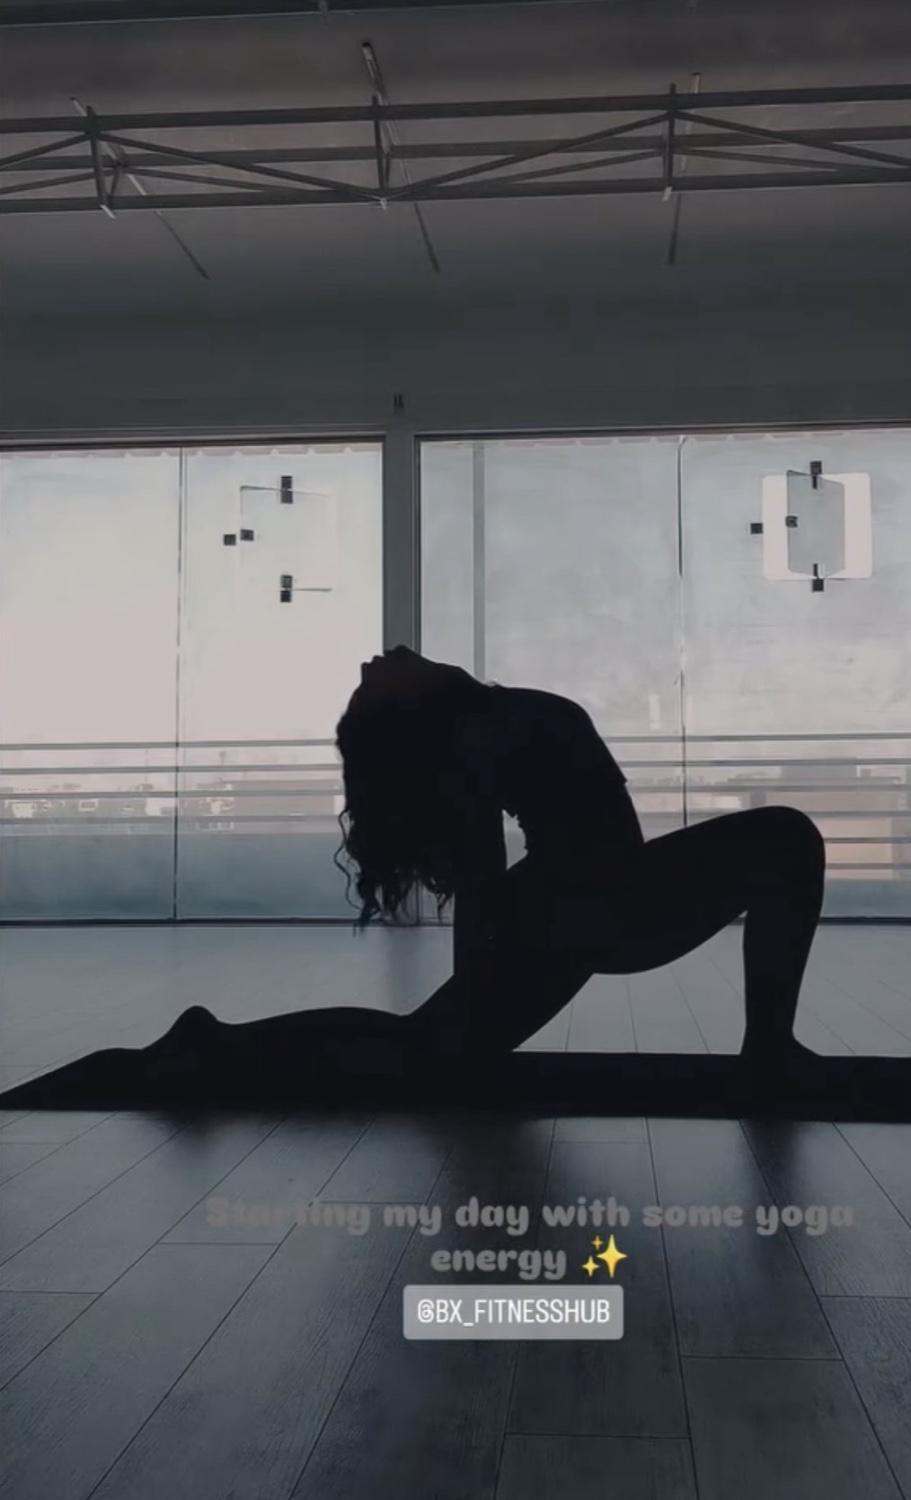
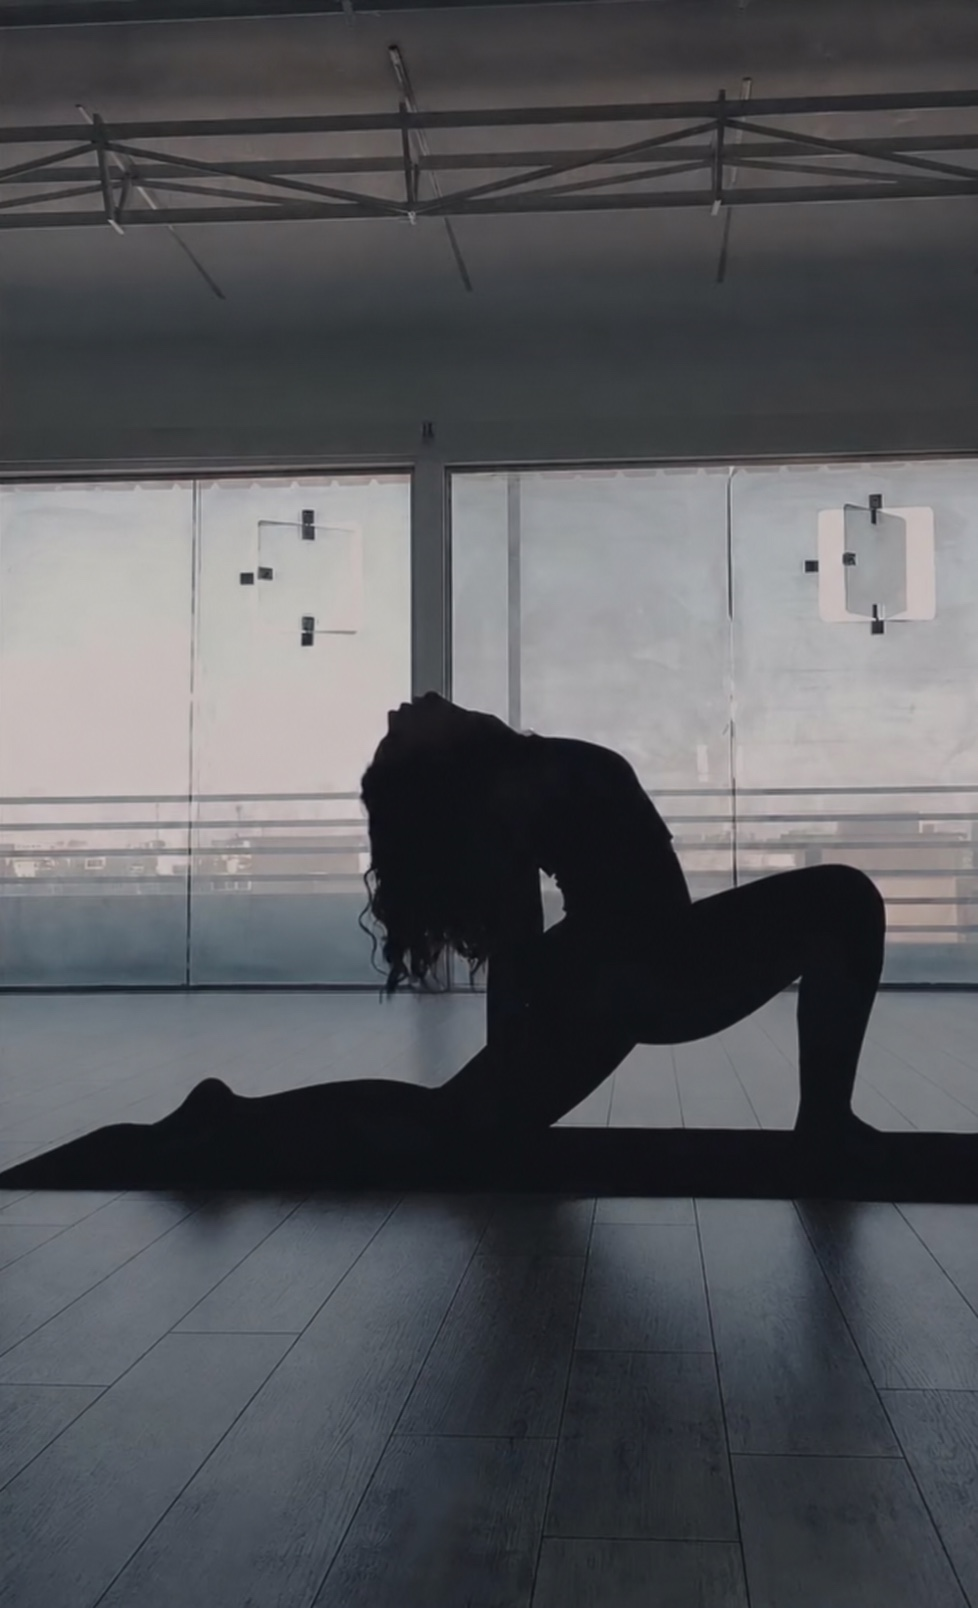
feat: the new stretching photograph in About
Replaces the yoga-flow shot in the square inset. The new one is a
backlit silhouette against the studio windows - graphic and almost
monochrome, which sits better beside the strength floor behind it than
the old daylit frame did.

Converted PNG to JPEG on the way in, 1.3MB to 210KB, and put in
src/images rather than public so the static import fingerprints it by
content and anyone holding the old picture gets the new one.

The 62% crop carried over unchanged and happens to suit this frame too:
the image is narrower than the square, so its full width shows and the
height is cropped, and 62% pulls that window down off the ceiling truss
and onto the figure. Checked at 1440px rather than assumed.

The alt text is rewritten, because it described a different photograph.

Changed region(s): [[0.3996, 0.7973, 0.9221, 0.92]]

diff --git a/src/components/sections/About.tsx b/src/components/sections/About.tsx
@@ -41,12 +41,14 @@ export default function About() {
                 className="plate object-cover"
               />
             </div>
-            {/* Square frame over a tall photograph, so the crop is pulled
-                down onto the figure rather than the window above her. */}
+            {/* Square frame over a tall photograph. The image is narrower
+                than the frame, so its full width shows and the height is
+                cropped - the 62% pulls that window down onto the figure
+                rather than the ceiling truss above her. */}
             <div className="absolute -bottom-10 -right-4 hidden aspect-square w-40 border-4 border-ink sm:block lg:-right-10 lg:w-52">
               <Image
                 src={studioYoga}
-                alt="A member moving through a yoga flow in the daylit studio at BX"
+                alt="A member stretching in silhouette against the studio windows at BX"
                 fill
                 sizes="(max-width: 1024px) 160px, 208px"
                 className="plate object-cover object-[50%_62%]"
